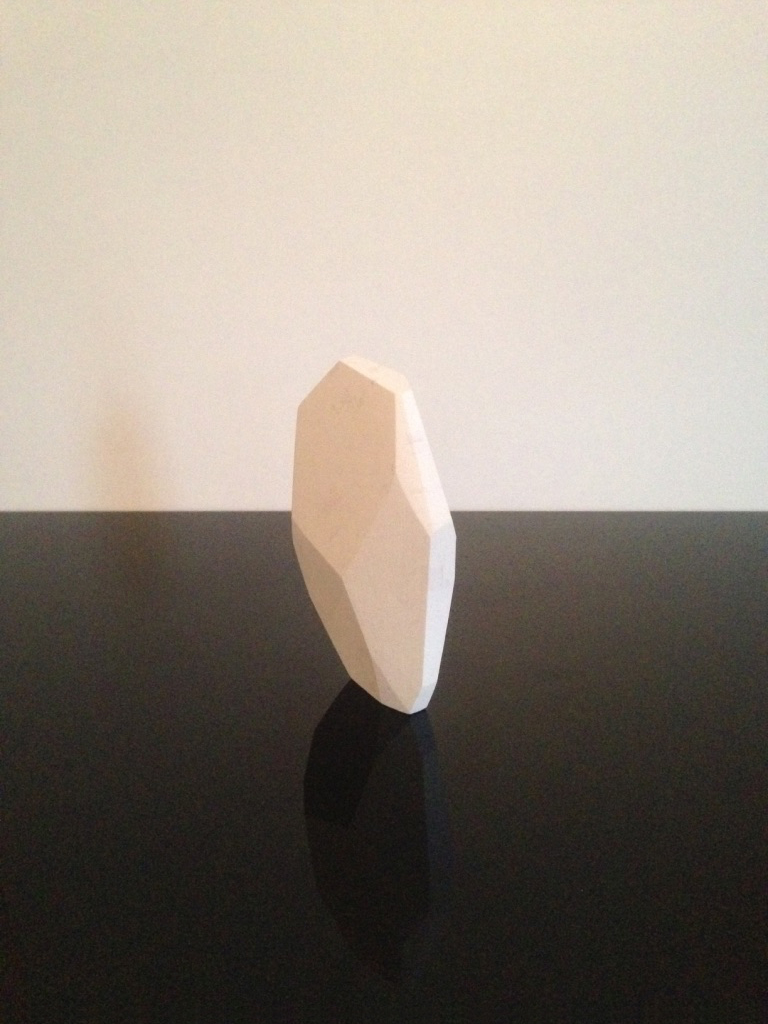
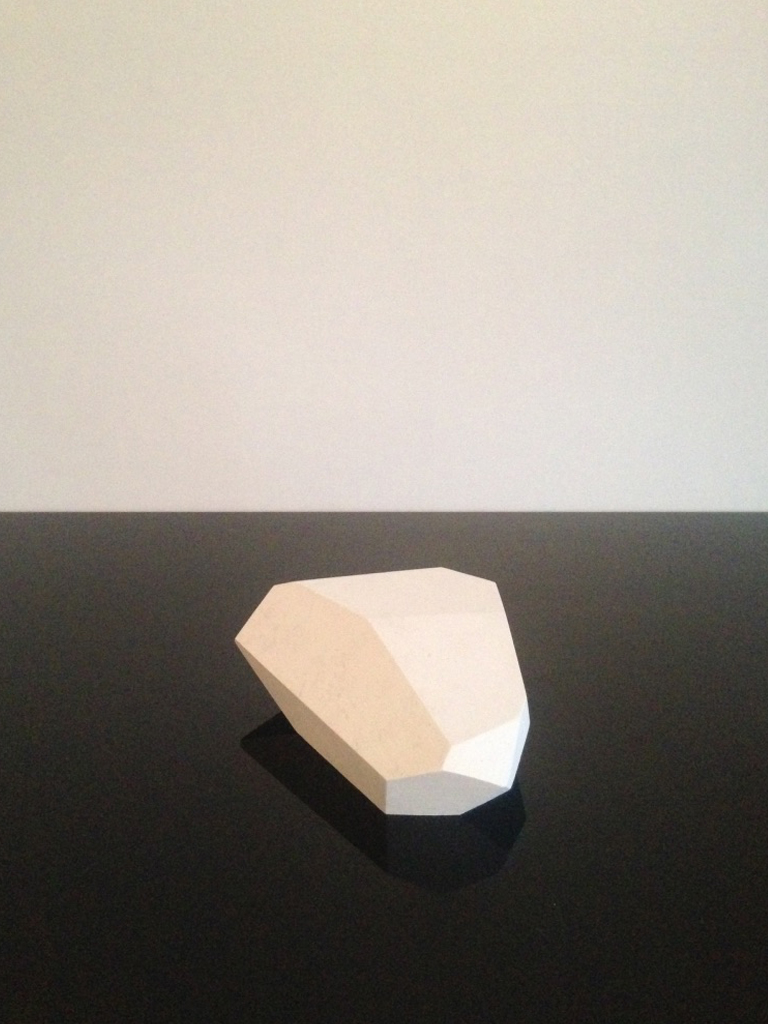
2018-03-20_22:00

Changed region(s): [[0.3125, 0.3438, 0.7188, 0.8125], [0.125, 0.4062, 0.2188, 0.5312]]

diff --git a/_site/a-piece-of-chalk/index.html b/_site/a-piece-of-chalk/index.html
@@ -5,7 +5,7 @@
     <meta name="viewport" content="width=device-width, initial-scale=1">
     
     
-    <title>2083 - <++></title>
+    <title>2083 - A piece of chalk</title>
     
     <link rel="stylesheet" href="/assets/reset.css">
     <link rel="stylesheet" href="/assets/main.css">
@@ -16,14 +16,27 @@
   <body>
     <h1 id="title"><a href="/">2083</a></h1>
     <div id="description" class="panel post">
-<h2><++></h2>
-<h3><++></h3>
+<h2>Tops</h2>
 <p>
-  <b>description: </b><++>
+  Description: Adopting a consistent approach for each piece of chalk where the surface of each is reduced to a seamless series of convex polygons. Although an entirely handmade process - the finished forms share an aesthetic quality more associated with a digital context.
 </p>
+<p>
+  The material for these pieces comes from the River Thames at low-tide from small, exposed seams of chalk. The chalk is primarily a pure form of limestone (calcium carbonate) formed from the shells of microscopic marine algae around 100 million years ago.
+</p>
+<span>
+  £30 - £360<br>
+  (dependant on weight/size)
+</span>
 
 </div>
 <div class="media post">
+     <img src="/assets/img/chalk/chalk_01.jpg" alt="image" />
+     <img src="/assets/img/chalk/chalk_02.jpg" alt="image" />
+     <img src="/assets/img/chalk/chalk_03.jpg" alt="image" />
+     <img src="/assets/img/chalk/chalk_04.jpg" alt="image" />
+     <img src="/assets/img/chalk/chalk_05.gif" alt="image" />
+     <img src="/assets/img/chalk/chalk_06.jpg" alt="image" />
+     <img src="/assets/img/chalk/chalk_07.jpg" alt="image" />
 </div>
 
 
@@ -42,7 +55,7 @@
     </li>
   
     <li>
-      <a href="/a-piece-of-chalk/"><++></a>
+      <a href="/a-piece-of-chalk/">A piece of chalk</a>
     </li>
   
     <li>

diff --git a/_posts/2018-01-07-a-piece-of-chalk.html b/_posts/2018-01-07-a-piece-of-chalk.html
@@ -1,12 +1,18 @@
 ---
 layout: post
-title: <++>
-imgpath: <++>
+title: A piece of chalk
+imgpath: /img/chalk
 ---
-<h2><++></h2>
-<h3><++></h3>
+<h2>Tops</h2>
 <p>
-  <b>description: </b><++>
+  Description: Adopting a consistent approach for each piece of chalk where the surface of each is reduced to a seamless series of convex polygons. Although an entirely handmade process - the finished forms share an aesthetic quality more associated with a digital context.
 </p>
+<p>
+  The material for these pieces comes from the River Thames at low-tide from small, exposed seams of chalk. The chalk is primarily a pure form of limestone (calcium carbonate) formed from the shells of microscopic marine algae around 100 million years ago.
+</p>
+<span>
+  £30 - £360<br>
+  (dependant on weight/size)
+</span>
 
 {% include images.html path=page.imgpath %}

diff --git a/_site/72-rolls-32-balls/index.html b/_site/72-rolls-32-balls/index.html
@@ -55,7 +55,7 @@
     </li>
   
     <li>
-      <a href="/a-piece-of-chalk/"><++></a>
+      <a href="/a-piece-of-chalk/">A piece of chalk</a>
     </li>
   
     <li>

diff --git a/_site/ex-football/index.html b/_site/ex-football/index.html
@@ -51,7 +51,7 @@
     </li>
   
     <li>
-      <a href="/a-piece-of-chalk/"><++></a>
+      <a href="/a-piece-of-chalk/">A piece of chalk</a>
     </li>
   
     <li>

diff --git a/_site/found-objects/index.html b/_site/found-objects/index.html
@@ -55,7 +55,7 @@
     </li>
   
     <li>
-      <a href="/a-piece-of-chalk/"><++></a>
+      <a href="/a-piece-of-chalk/">A piece of chalk</a>
     </li>
   
     <li>

diff --git a/_site/packing-tape-cones/index.html b/_site/packing-tape-cones/index.html
@@ -56,7 +56,7 @@
     </li>
   
     <li>
-      <a href="/a-piece-of-chalk/"><++></a>
+      <a href="/a-piece-of-chalk/">A piece of chalk</a>
     </li>
   
     <li>

diff --git a/_site/posidonias/index.html b/_site/posidonias/index.html
@@ -52,7 +52,7 @@
     </li>
   
     <li>
-      <a href="/a-piece-of-chalk/"><++></a>
+      <a href="/a-piece-of-chalk/">A piece of chalk</a>
     </li>
   
     <li>

diff --git a/_site/tire-fragments/index.html b/_site/tire-fragments/index.html
@@ -42,7 +42,7 @@
     </li>
   
     <li>
-      <a href="/a-piece-of-chalk/"><++></a>
+      <a href="/a-piece-of-chalk/">A piece of chalk</a>
     </li>
   
     <li>

diff --git a/_site/tops/index.html b/_site/tops/index.html
@@ -53,7 +53,7 @@
     </li>
   
     <li>
-      <a href="/a-piece-of-chalk/"><++></a>
+      <a href="/a-piece-of-chalk/">A piece of chalk</a>
     </li>
   
     <li>
